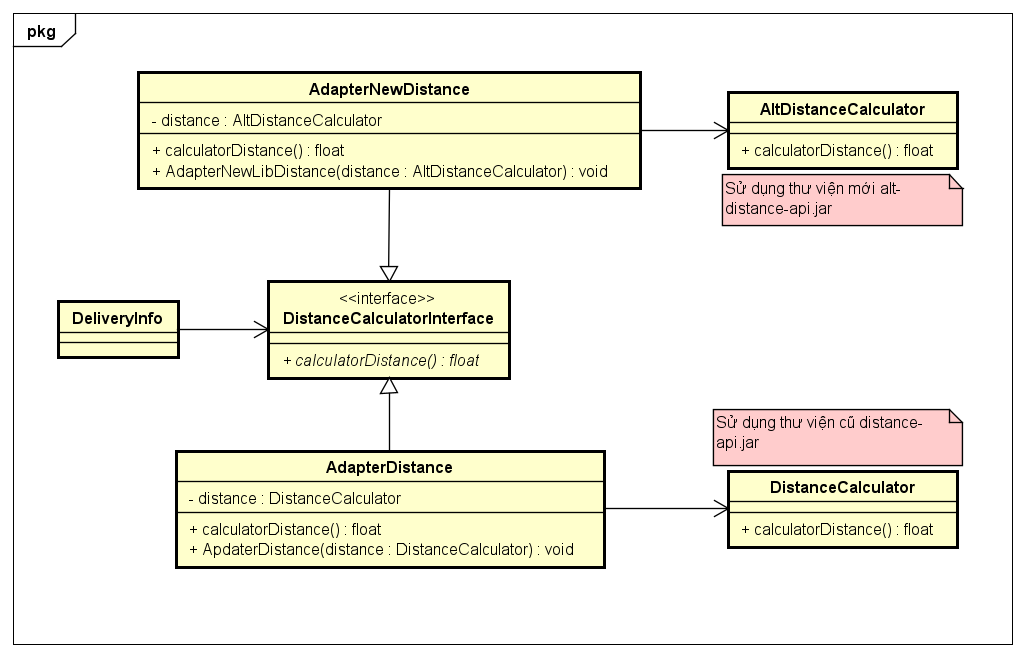
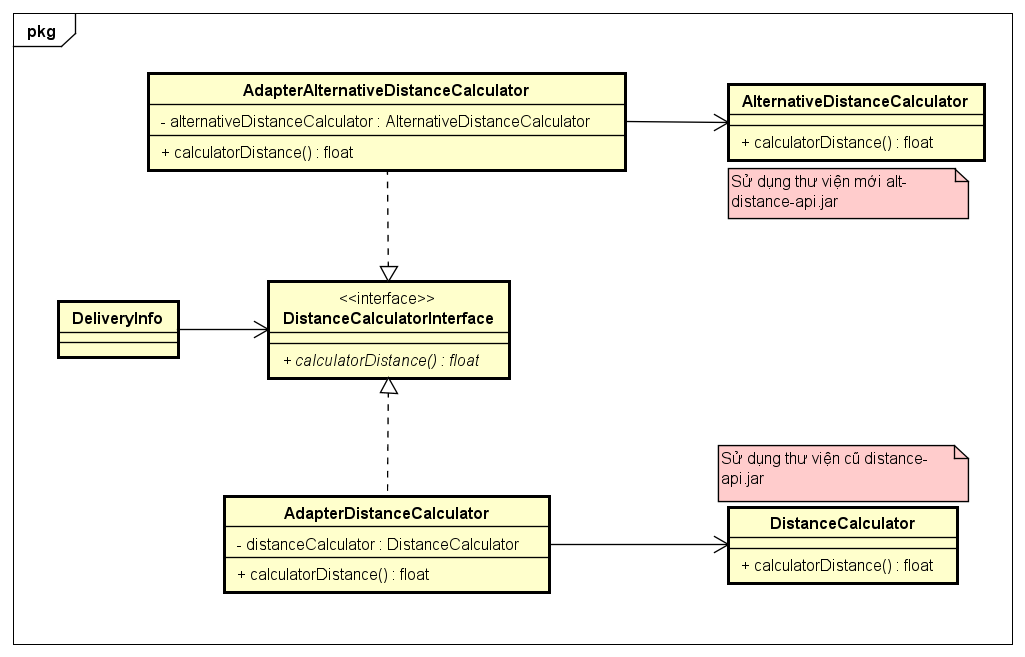
adapter pattern requirement 4

Changed region(s): [[0.1561, 0.5784, 0.9678, 0.9132], [0.1249, 0.0913, 0.9678, 0.3653]]

diff --git a/src/main/java/entity/shipping/DeliveryInfo.java b/src/main/java/entity/shipping/DeliveryInfo.java
@@ -1,5 +1,6 @@
 package entity.shipping;
 
+import common.interfaces.DistanceCalculatorInterface;
 import entity.order.Order;
 import org.example.DistanceCalculator;
 
@@ -11,22 +12,22 @@ public class DeliveryInfo {
     protected String province;
     protected String address;
     protected String shippingInstructions;
-    protected DistanceCalculator distanceCalculator;
+    protected DistanceCalculatorInterface distanceCalculatorInterface;
 
-    public DeliveryInfo(String name, String phone, String province, String address, String shippingInstructions, DistanceCalculator distanceCalculator) {
+    public DeliveryInfo(String name, String phone, String province, String address, String shippingInstructions, DistanceCalculatorInterface distanceCalculatorInterface) {
         this.name = name;
         this.phone = phone;
         this.province = province;
         this.address = address;
         this.shippingInstructions = shippingInstructions;
-        this.distanceCalculator = distanceCalculator;
+        this.distanceCalculatorInterface = distanceCalculatorInterface;
     }
 
 //vi pham nguyen ly OCP
 // khi thay doi cach tinh phi ship thi phai thay doi 
  // ngoai ra con phu thuoc vao DistanceCalculator, khi thay doi cach tinh bang thu vien moi thi phai thay doi
     public int calculateShippingFee(Order order) {
-        int distance = distanceCalculator.calculateDistance(address, province);
+        int distance = distanceCalculatorInterface.calculateDistance(province,address);
         return (int) (distance * DISTANCE_FACTOR);
     }
 

diff --git a/src/main/java/controller/PlaceOrderController.java b/src/main/java/controller/PlaceOrderController.java
@@ -3,13 +3,8 @@ package controller;
 import common.exception.InvalidDeliveryInfoException;
 import entity.invoice.Invoice;
 import entity.order.Order;
-
+import entity.shipping.AdapterAlternativeDistanceCalculator;
 import entity.shipping.DeliveryInfo;
-
-import org.example.DistanceCalculator;
-import org.example.AlternativeDistanceCalculator;
-import entity.shipping.AdapterDistanceCalculator;
-
 import java.io.IOException;
 import java.sql.SQLException;
 import java.util.*;
@@ -64,15 +59,15 @@ public class PlaceOrderController extends BaseController {
         LOGGER.info("Process Delivery Info");
         LOGGER.info(info.toString());
         validate.validateDeliveryInfo(info);
-        AdapterDistanceCalculator adapterDistanceCalculator = new AdapterDistanceCalculator(
+        DeliveryInfo deliveryInfo = new DeliveryInfo(
                 String.valueOf(info.get("name")),
                 String.valueOf(info.get("phone")),
                 String.valueOf(info.get("province")),
                 String.valueOf(info.get("address")),
                 String.valueOf(info.get("instructions")),
-                new AlternativeDistanceCalculator());
-        System.out.println(adapterDistanceCalculator.getProvince());
-        return adapterDistanceCalculator;
+                new AdapterAlternativeDistanceCalculator());
+        System.out.println(deliveryInfo.getProvince());
+        return deliveryInfo;
     }
 
 }

diff --git a/src/main/java/entity/shipping/AdapterDistanceCalculator.java b/src/main/java/entity/shipping/AdapterDistanceCalculator.java
@@ -1,12 +1,17 @@
 package entity.shipping;
 
+import org.example.AddressMapper;
 import org.example.AlternativeDistanceCalculator;
+import common.interfaces.DistanceCalculatorInterface;
+import org.example.DistanceCalculator;
 
-public class AdapterDistanceCalculator extends DeliveryInfo{
-    private AlternativeDistanceCalculator alternativeDistanceCalculator;
+import java.util.Arrays;
 
-    public AdapterDistanceCalculator(String name, String phone, String province, String address, String shippingInstructions, AlternativeDistanceCalculator alternativeDistanceCalculator) {
-        super(name, phone, province, address, shippingInstructions, null);
-        this.alternativeDistanceCalculator = alternativeDistanceCalculator;
+public class AdapterDistanceCalculator implements DistanceCalculatorInterface {
+    DistanceCalculator distanceCalculator = new DistanceCalculator();
+
+    @Override
+    public int calculateDistance(String province, String address) {
+        return distanceCalculator.calculateDistance(address, province);
     }
 }

diff --git a/src/main/java/entity/shipping/AdapterAlternativeDistanceCalculator.java b/src/main/java/entity/shipping/AdapterAlternativeDistanceCalculator.java
@@ -1,0 +1,12 @@
+package entity.shipping;
+
+import common.interfaces.DistanceCalculatorInterface;
+import org.example.AlternativeDistanceCalculator;
+
+public class AdapterAlternativeDistanceCalculator implements DistanceCalculatorInterface {
+    AlternativeDistanceCalculator alternativeDistanceCalculator = new AlternativeDistanceCalculator();
+    @Override
+    public int calculateDistance(String province, String address) {
+        return alternativeDistanceCalculator.calculateDistance(province,address);
+    }
+}

diff --git a/src/main/java/common/interfaces/DistanceCalculatorInterface.java b/src/main/java/common/interfaces/DistanceCalculatorInterface.java
@@ -1,0 +1,9 @@
+package common.interfaces;
+
+import org.example.AddressMapper;
+
+import java.util.Arrays;
+
+public interface DistanceCalculatorInterface {
+    public int calculateDistance(String province, String address);
+}
